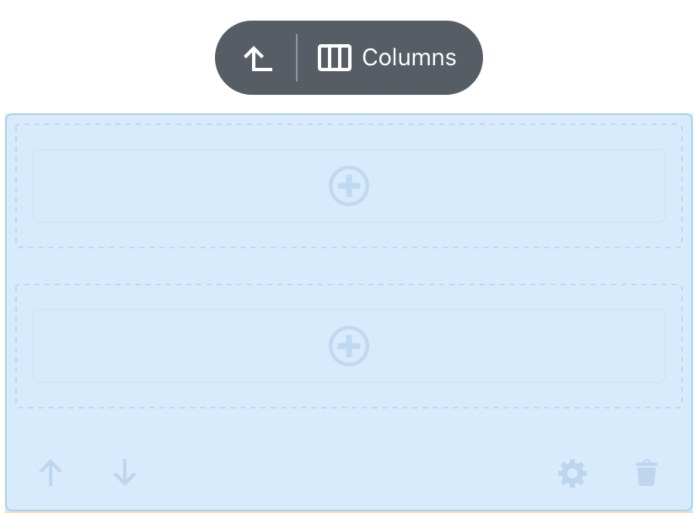
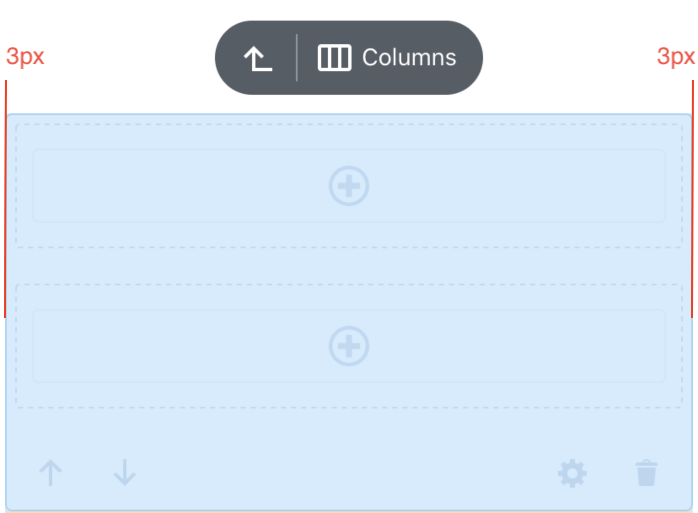
add visual spaces on image, adjust wording

diff --git a/test-cases/gutenberg/group.md b/test-cases/gutenberg/group.md
@@ -18,26 +18,6 @@ Expected look:
 
 ##### TC002
 
-### DefaultAppender allows to open Inserter and add block outside the group
-
--   Add a `Group` block
--   Having `Group` block selected press on `DefaultAppender`
--   Check if the block is added outside after the `Group`
-
-Expected look:  
-![SeparatorAfter](../resources/group-outer-separator-after.png)
-
--   Having `Group` block selected long press on `DefaultAppender`
--   Select where you want to add block after or before
--   Check if the block is added outside after/before the `Group`
-
-Expected look:  
-![SeparatorBefore](../resources/group-outer-separator-before.png)
-
---------------------------------------------------------------------------------
-
-##### TC003
-
 ### Deep nesting is possible (iOS only)
 
 -   Add a `Group` block
@@ -46,7 +26,7 @@ Expected look:
 
 --------------------------------------------------------------------------------
 
-##### TC004
+##### TC003
 
 ### Check if Group placeholder is visible for the unselected state
 
@@ -59,7 +39,7 @@ Expected look:
 
 --------------------------------------------------------------------------------
 
-##### TC005
+##### TC004
 
 ### Check if Group placeholder is render in nested structure
 
@@ -84,7 +64,7 @@ Expected look:
 
 --------------------------------------------------------------------------------
 
-##### TC006
+##### TC005
 
 ### Nested block have proper border styling
 
@@ -98,34 +78,34 @@ Expected look:
 
 --------------------------------------------------------------------------------
 
-##### TC007
+##### TC006
 
 ### Nested block have proper margins values
 
 -   Add a `Group` block
 -   Nest some blocks inside
--   Check if margins and paddings do not bounce when changing selection (exception is the trasition of the selected block connected with making space for FloatingToolbar)
+-   Check if space aroun blocks do not bounce when changing selection (exception is the trasition of the selected block connected with making space for FloatingToolbar)
 -   Check if there is no weird/unexpected extra free space around blocks
--   Check the margins/paddings values
+-   Check the spaces values
 
 Expected look:  
-![MarginRoot](../resources/group-margin-root.png)
- - Margins of `3px` left/right (between screen edge and solid border)
+![SpaceRoot](../resources/group-margin-root.png)
+ - Space of `3px` left/right (between screen edge and solid border)
 
-![MarginGroupChild](../resources/group-margin-inner-child-group.png)
- - Margins of `5px` left/right (beetwen dashed border and solid border)
+![SpaceGroupChild](../resources/group-margin-inner-child-group.png)
+ - Space of `5px` left/right (beetwen dashed border and solid border)
 
-![MarginChild](../resources/group-margin-child.png)
- - Margin of `6px` left/right (beetwen content and dashed border)
+![SpaceChild](../resources/group-margin-child.png)
+ - Space of `6px` left/right (beetwen content and dashed border)
 
-![MarginContent](../resources/group-margin-root-1.png)
- - Margin of `16px` left/right
+![SpaceContent](../resources/group-margin-root-1.png)
+ - Space of `16px` left/right
 
 Total space from screen edge to content should equals `16px` in each state (including solid and dashed border width in selection state)
 
 --------------------------------------------------------------------------------
 
-##### TC008
+##### TC007
 
 ### Nested selection cause applying dimmed style on the rest of blocks
 
@@ -145,7 +125,7 @@ Expected look:
 
 --------------------------------------------------------------------------------
 
-##### TC009
+##### TC008
 
 ### Breadcrumbs on FloatingToolbar is properly displayed
 
@@ -162,7 +142,7 @@ Expected look:
 
 --------------------------------------------------------------------------------
 
-##### TC010
+##### TC009
 
 ### Navigation up button works as expected
 
@@ -175,7 +155,7 @@ Expected look:
 
 --------------------------------------------------------------------------------
 
-##### TC011
+##### TC010
 
 ### Navigation down works as expected
 
@@ -189,7 +169,7 @@ Expected look:
 
 --------------------------------------------------------------------------------
 
-##### TC012
+##### TC011
 
 ### Cross navigation between blocks works as expected
 
@@ -201,7 +181,7 @@ Expected look:
 
 --------------------------------------------------------------------------------
 
-##### TC013
+##### TC012
 
 ### Ungroup button works as expected
 
@@ -213,7 +193,7 @@ Expected look:
 
 --------------------------------------------------------------------------------
 
-##### TC014
+##### TC013
 
 ### Check if in DarkMode all components gets proper colors (iOS)
 
